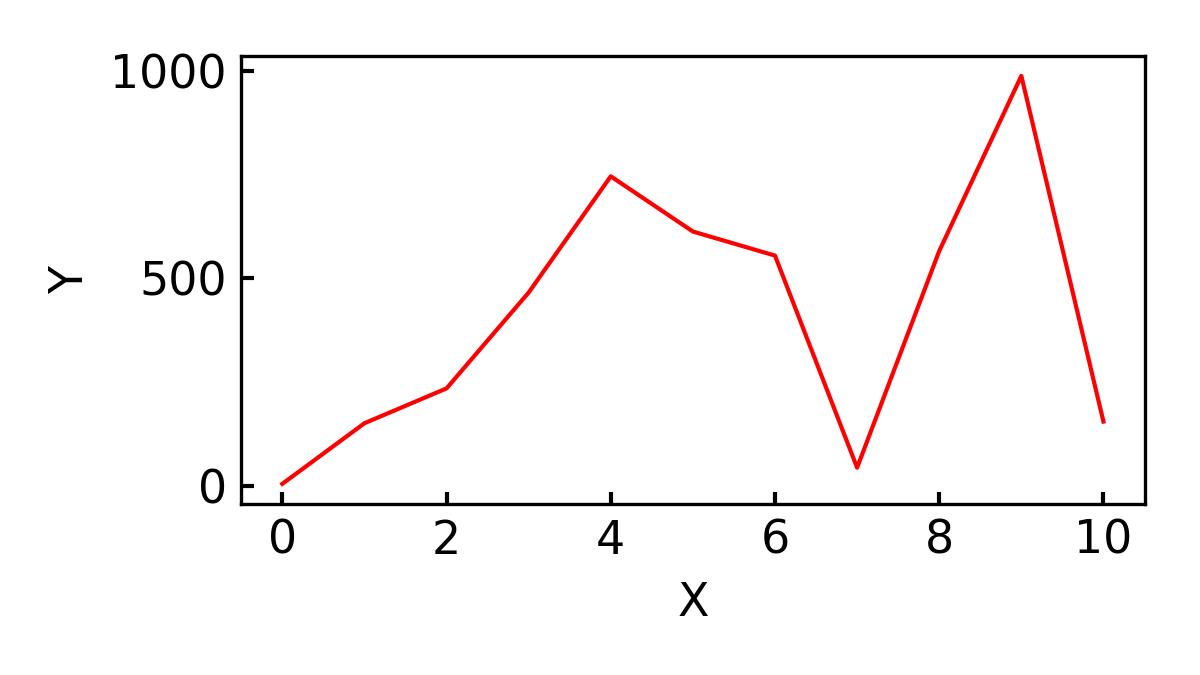
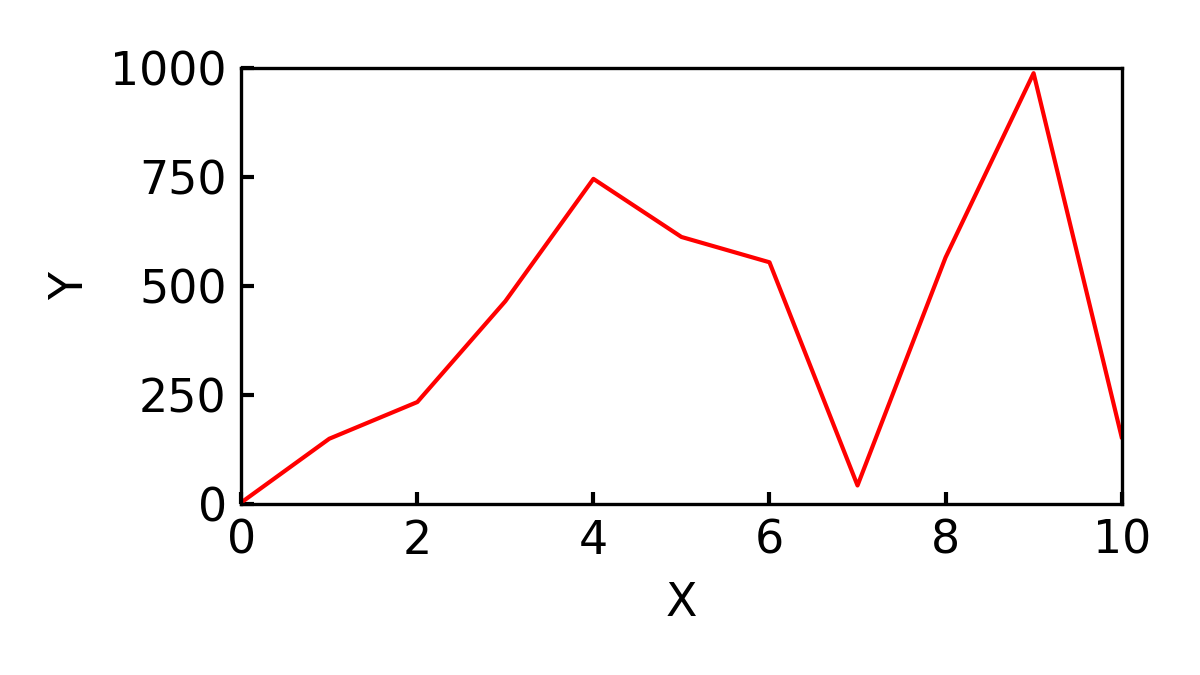
restore classic auto axis limit mechanism

diff --git a/fastplot/__init__.py b/fastplot/__init__.py
@@ -53,6 +53,11 @@ def plot(data, path, mode = 'line',
     plt.rc('axes', prop_cycle=cycler)
     plt.rc('font', **{'size': fontsize})
 
+    # Old default axis lim
+    plt.rcParams['axes.autolimit_mode'] = 'round_numbers'
+    plt.rcParams['axes.xmargin'] = 0
+    plt.rcParams['axes.ymargin'] = 0
+
     # 2. Set axis characteristics
     plt.yscale(yscale)
     plt.xscale(xscale)
